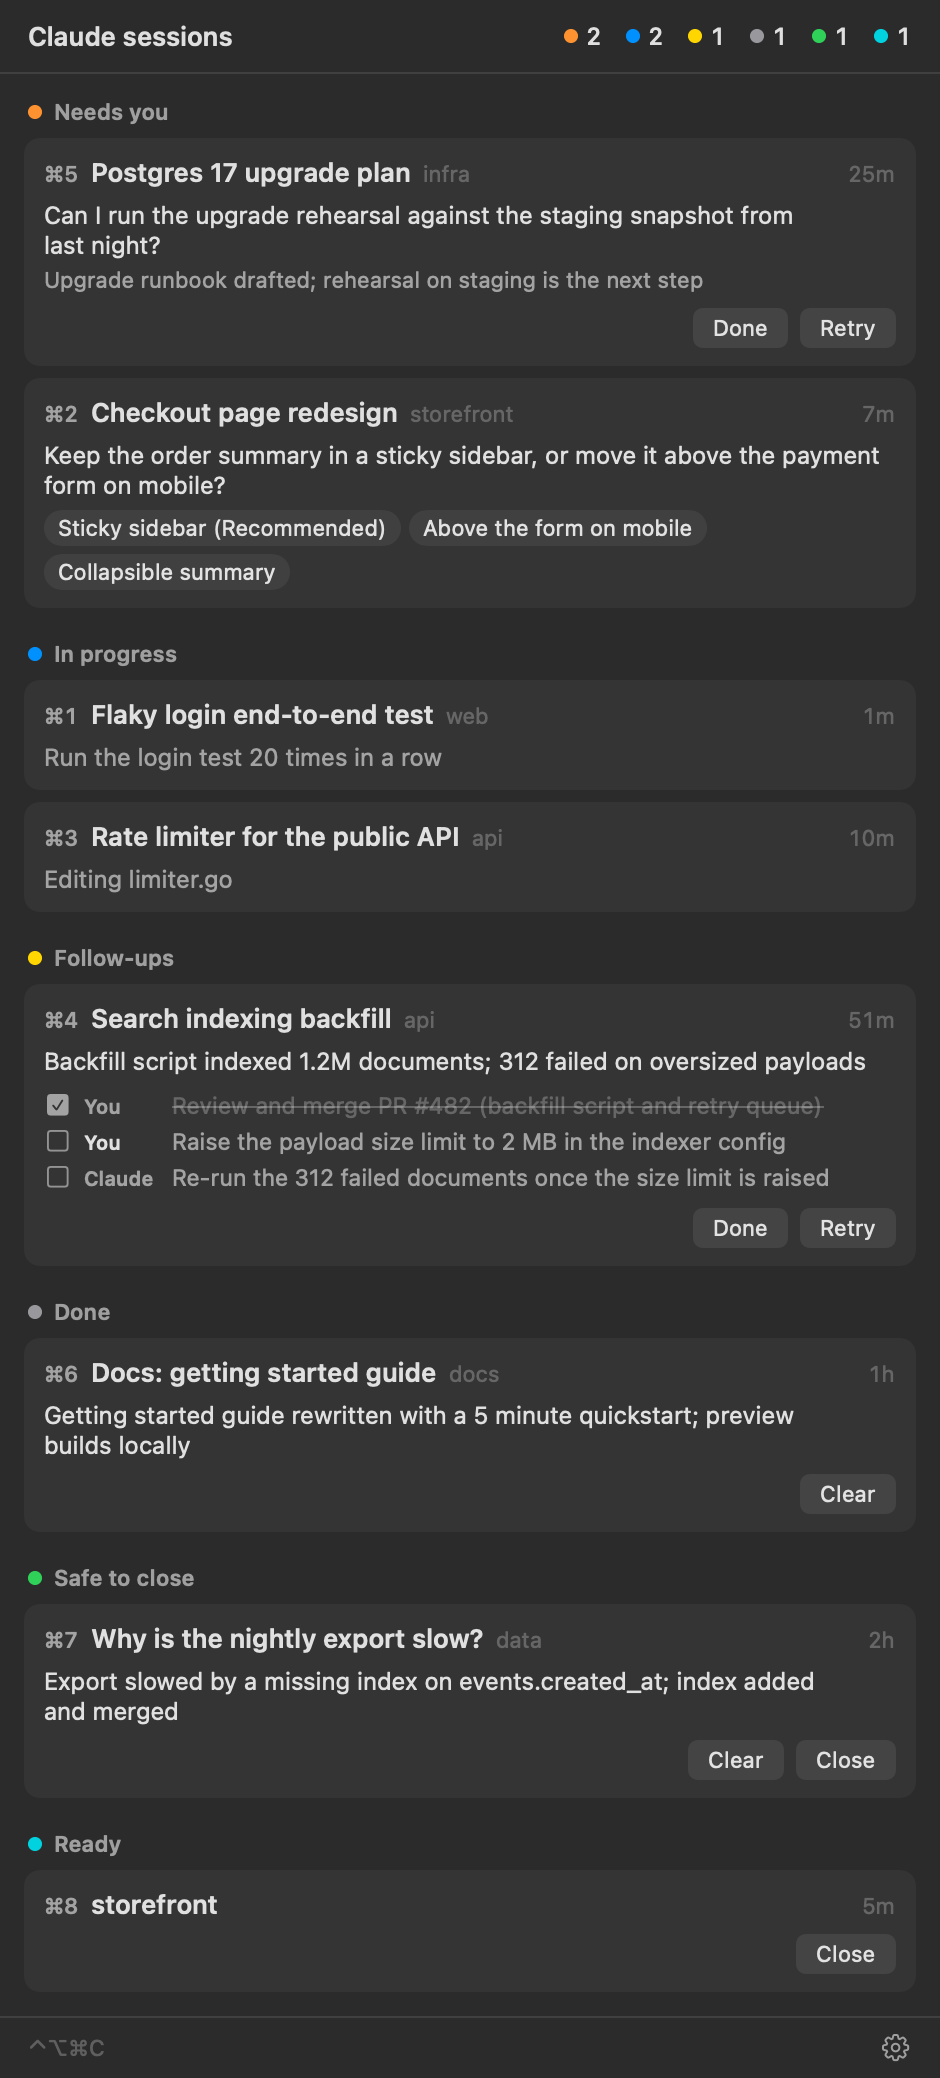
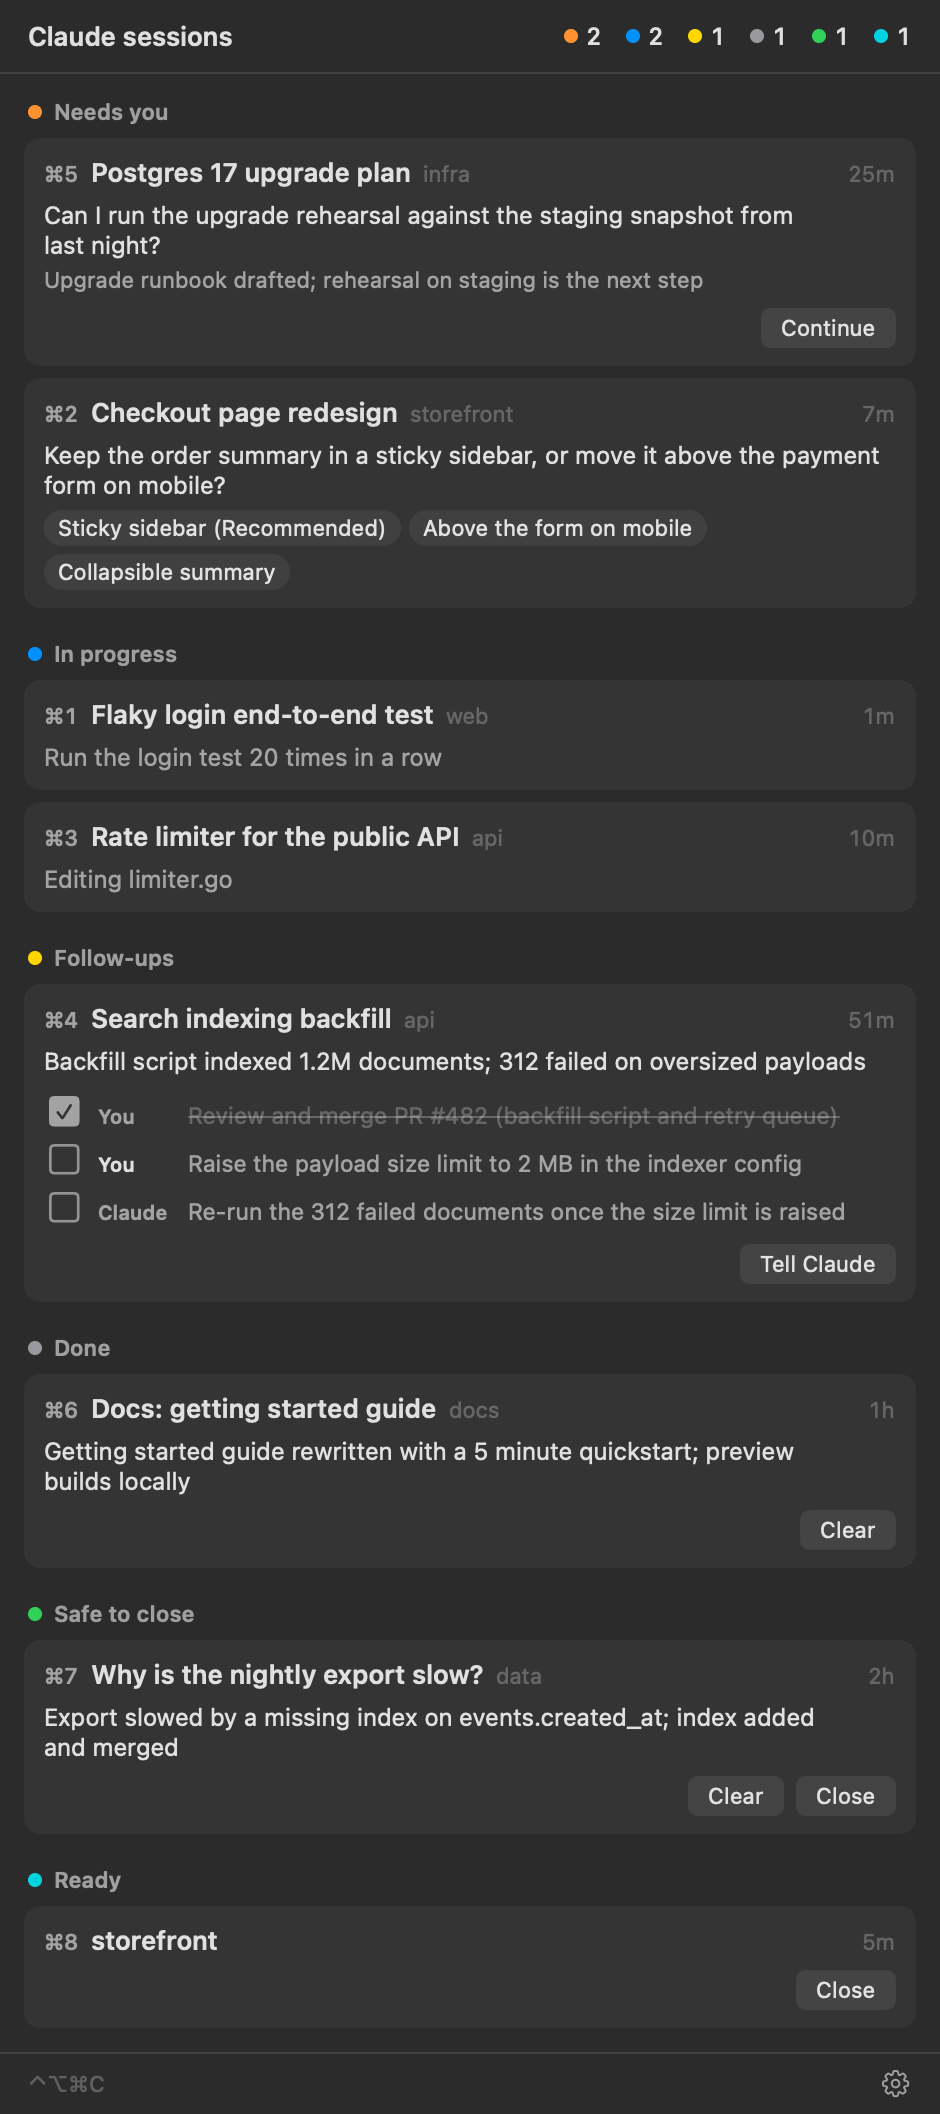
One Tell Claude button instead of Done and Retry; bigger checkboxes
Cards with follow-ups get a single Tell Claude button that types the ticked
items into the session as one line ("Done: a; b."). With nothing ticked it
sends nothing and highlights the boxes. It stays on a card whose items are
all ticked (Safe to close). Needs-you cards without a checklist get one
Continue button.

Claude-Session: https://claude.ai/code/session_01RDhaBmaSGQdn4KcxV3dp3V

diff --git a/app/Sources/Views.swift b/app/Sources/Views.swift
@@ -137,6 +137,7 @@ struct SessionCard: View {
 
     @State private var confirmingClose = false
     @State private var hovering = false
+    @State private var showMissingTicks = false
 
     var body: some View {
         VStack(alignment: .leading, spacing: 7) {
@@ -230,10 +231,11 @@ struct SessionCard: View {
             ForEach(session.followups, id: \.text) { item in
                 let checked = store.isChecked(session, item)
                 Button { store.toggle(session, item) } label: {
-                    HStack(alignment: .firstTextBaseline, spacing: 6) {
+                    HStack(alignment: .firstTextBaseline, spacing: 7) {
                         Image(systemName: checked ? "checkmark.square.fill" : "square")
-                            .font(.system(size: 12))
-                            .foregroundStyle(checked ? Color.secondary : Color.primary.opacity(0.55))
+                            .font(.system(size: 17))
+                            .foregroundStyle(checked ? Color.secondary : (showMissingTicks ? Color.orange : Color.primary.opacity(0.55)))
+                            .frame(width: 20)
                         Text(item.who == "claude" ? "Claude" : "You")
                             .font(.system(size: 10, weight: .semibold))
                             .foregroundStyle(checked || item.who == "claude" ? Color.secondary : Color.primary)
@@ -245,13 +247,29 @@ struct SessionCard: View {
                             .fixedSize(horizontal: false, vertical: true)
                         Spacer(minLength: 0)
                     }
-                    .padding(.vertical, 1)
+                    .padding(.vertical, 2)
                     .contentShape(Rectangle())
                 }
                 .buttonStyle(.plain)
                 .help(checked ? "Mark as not done" : "Mark as done")
             }
         }
+    }
+
+    /// One line ("Done: a; b.") so typing it into the terminal cannot submit half of it.
+    private func tellTicked() {
+        let ticked = session.followups.filter { store.isChecked(session, $0) }
+        guard !ticked.isEmpty else {
+            showMissingTicks = true
+            store.say("Nothing ticked")
+            Task {
+                try? await Task.sleep(nanoseconds: 1_500_000_000)
+                showMissingTicks = false
+            }
+            return
+        }
+        let items = ticked.map { $0.text.trimmingCharacters(in: CharacterSet(charactersIn: " .;")) }
+        store.reply(session, "Done: " + items.joined(separator: "; ") + ".")
     }
 
     private func picker(_ q: Question) -> some View {
@@ -278,11 +296,13 @@ struct SessionCard: View {
         HStack(spacing: 6) {
             Spacer()
             if session.canReply {
-                // One-click answers that get the session going again.
-                Button("Done") { store.reply(session, "done") }
-                    .help("Send \"done\" to the session")
-                Button("Retry") { store.reply(session, "retry") }
-                    .help("Send \"retry\" to the session")
+                if hasChecklist {
+                    Button("Tell Claude") { tellTicked() }
+                        .help("Send the ticked items to the session")
+                } else {
+                    Button("Continue") { store.reply(session, "continue") }
+                        .help("Send \"continue\" to the session")
+                }
             }
             if session.canClear {
                 Button("Clear") { store.clear(session) }

diff --git a/cockpit/cockpit.py b/cockpit/cockpit.py
@@ -1055,9 +1055,7 @@ class Snapshotter:
                 spawn_judge(sid, path, row["name"], cwd, facts["turn_key"])
 
         idle = status == "idle"
-        row["can_reply"] = (
-            idle and bool(term) and row["group"] in ("needs_you", "followups") and row["kind"] not in ("picker", "plan", "permission")
-        )
+        row["can_reply"] = idle and bool(term) and replyable(row)
         row["can_clear"] = idle and bool(term) and row["group"] in ("done", "close")
         row["can_close"] = idle and row["group"] in ("close", "ready")
         return row
@@ -1068,6 +1066,13 @@ class Snapshotter:
         rows = [self.row(s) for s in sessions]
         rows.sort(key=lambda r: -(r["since"] or 0))
         return {"at": time.time(), "sessions": rows}
+
+
+def replyable(row):
+    """Typing into the session makes sense: Claude asked something, or there is a checklist to report on."""
+    if row["kind"] in ("picker", "plan", "permission"):
+        return False
+    return row["group"] in ("needs_you", "followups") or (bool(row["followups"]) and row["group"] in ("done", "close"))
 
 
 def serve():
@@ -1120,7 +1125,7 @@ def demo_snapshot():
         }
         r.update(extra)
         idle = r["status"] == "idle"
-        r["can_reply"] = idle and group in ("needs_you", "followups") and r["kind"] not in ("picker", "plan", "permission")
+        r["can_reply"] = idle and replyable(r)
         r["can_clear"] = idle and group in ("done", "close")
         r["can_close"] = idle and group in ("close", "ready")
         return r

diff --git a/tests/test_cockpit.py b/tests/test_cockpit.py
@@ -266,9 +266,11 @@ class Checklist(Sandbox):
         self.judged()
         for item in self.FOLLOWUPS:
             cockpit.set_checked(SID, item["text"], True)
-        row = self.row()
+        with mock.patch.object(cockpit, "map_terminals", lambda pids: {os.getpid(): {"tab": 1}}):
+            row = self.row()
         self.assertEqual(row["group"], "close")
         self.assertTrue(row["can_close"])
+        self.assertTrue(row["can_reply"])  # still lets you tell Claude what you did
 
     def test_ticks_survive_a_new_verdict_and_reach_the_judge(self):
         self.judged()

diff --git a/README.md b/README.md
@@ -30,7 +30,8 @@ Open the panel from the icon, or with **⌃⌥⌘C** from anywhere. On a MacBook
 
 - Click a card to jump to its tab.
 - Tick a follow-up once it is done. Ticks are kept across restarts and new turns, and the judge is told about them, so it does not list them again. When every item is ticked, the card moves to **Safe to close**.
-- **Done** and **Retry** (on Needs you and Follow-ups) send that word to the session in one click, to get it going again after you did your part or after a failure.
+- **Tell Claude** (on cards with follow-ups) sends the ticked items to the session in one line, such as `Done: Merge PR #482; Raise the size limit.`
+- **Continue** (on Needs you) sends `continue`, to get the session going again after you did your part or after a failure.
 - **Clear** (on Done and Safe to close) runs `/clear` in that tab: same tab, fresh conversation, and the card moves to **Ready**.
 - **Close** (on Safe to close and Ready) ends Claude in that tab and closes the tab, after a second click to confirm.
 
@@ -89,7 +90,7 @@ The judge sends the recent part of a finished session (your last prompts, Claude
 
 ## Terminals
 
-Ghostty is the only terminal with actions today. In any other terminal, or an editor's built-in terminal, sessions still appear with their group, headline and follow-ups, but clicking a card only reports that no tab was found, and Done, Retry and Clear are hidden. Close still ends the Claude process and leaves the tab open.
+Ghostty is the only terminal with actions today. In any other terminal, or an editor's built-in terminal, sessions still appear with their group, headline and follow-ups, but clicking a card only reports that no tab was found, and Tell Claude, Continue and Clear are hidden. Close still ends the Claude process and leaves the tab open.
 
 Support for another terminal is one small class in `cockpit.py` (list terminals with their PID or tty, focus one, type into one, close one). Pull requests are welcome.
 
